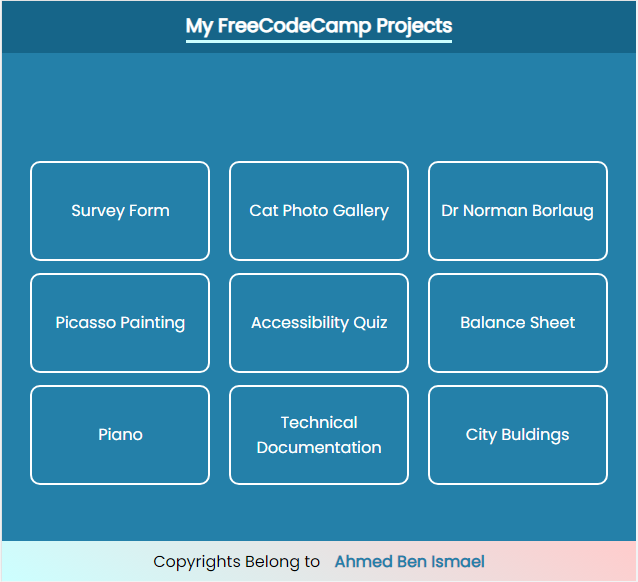
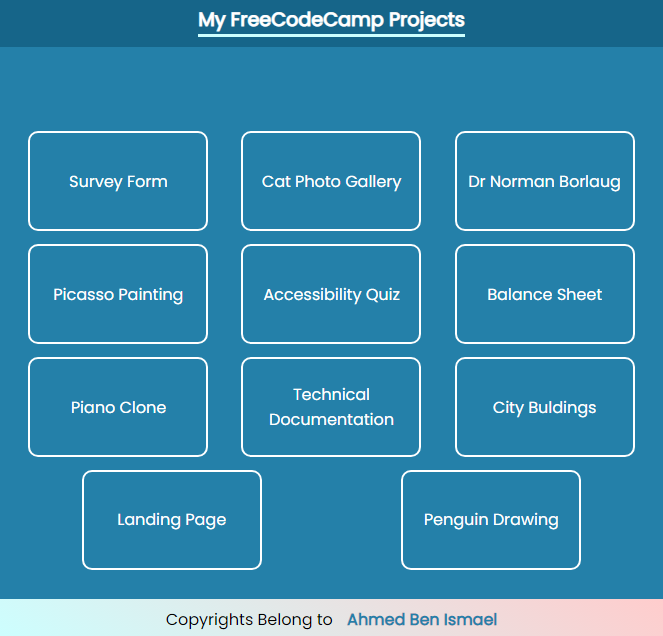
upload the new codepen drawing design link

Changed region(s): [[0.0, 0.0, 1.0, 1.0], [0.0893, 0.2784, 0.268, 0.3093]]

diff --git a/index.html b/index.html
@@ -49,71 +49,11 @@
 		</div>
 		<div class="body">
 			<div class="project-tile">
-				<a href="https://codepen.io/ABIHD20/details/bGMbvGK" target="_blank">
-					<img src="./imgs/city-skyline-css.PNG" alt="City Skylien Buldings made with CSS only">
-					<div class="title">
-						<span class="mark">< </saan>
-						<p>City Skyline CSS</p>
-						<span class="mark"> /></span>
-					</div>
-				</a>
-			</div>
-			<div class="project-tile">
-				<a href="https://codepen.io/ABIHD20/details/VwXopyJ" target="_blank">
-					<img src=".//imgs/cat-gallery.PNG" alt="Collection of Cat Photos">
-					<div class="title">
-						<span class="mark">< </saan>
-						<p>Cat Photos Gallery</p>
-						<span class="mark"> /></span>
-					</div>
-				</a>
-			</div>
-			<div class="project-tile">
-				<a href="https://codepen.io/ABIHD20/details/VwxmaLw" target="_blank">
-					<img src="./imgs/piano-project.PNG" alt="Design look like a Real Piano">
-					<div class="title">
-						<span class="mark">< </saan>
-						<p>Real Piano</p>
-						<span class="mark"> /></span>
-					</div>
-				</a>
-			</div>
-			<div class="project-tile">
-				<a href="https://codepen.io/ABIHD20/details/PoWevoG" target="_blank">
-					<img src="./imgs/fill-background.PNG" alt="Animation Fill Background">
-					<div class="title">
-						<span class="mark">< </saan>
-						<p>Page Animation</p>
-						<span class="mark"> /></span>
-					</div>
-				</a>
-			</div>
-			<div class="project-tile">
-				<a href="https://codepen.io/ABIHD20/details/GRdQwpO" target="_blank">
-					<img src="./imgs/roller-coaster.png" alt="Animation Fill Background">
-					<div class="title">
-						<span class="mark">< </saan>
-						<p>Roller Coaster</p>
-						<span class="mark"> /></span>
-					</div>
-				</a>
-			</div>
-			<div class="project-tile">
 				<a href="https://themarker20.github.io/HTML-CSS-Design-Template-1/" target="_blank">
 					<img src="./imgs/landing-page.png" alt="HTMl and CSS Design">
 					<div class="title">
-						<span class="mark">< </saan>
+						<span class="mark">< </span>
 						<p>Landing Page</p>
-						<span class="mark"> /></span>
-					</div>
-				</a>
-			</div>
-			<div class="project-tile">
-				<a href="https://themarker20.github.io/FreeCodeCamp-Collection/" target="_blank">
-					<img src="./imgs/collection-projects.png" alt="Projects Collection">
-					<div class="title">
-						<span class="mark">< </saan>
-						<p>Projects Collection</p>
 						<span class="mark"> /></span>
 					</div>
 				</a>
@@ -122,7 +62,7 @@
 				<a href="https://themarker20.github.io/Bootstrap-Practice-01/" target="_blank">
 					<img src="./imgs/bondi-bootstrap-practice.png" alt="Bootstrap Practice Design">
 					<div class="title">
-						<span class="mark">< </saan>
+						<span class="mark">< </span>
 						<p>Bootstrap Design 01</p>
 						<span class="mark"> /></span>
 					</div>
@@ -132,8 +72,78 @@
 				<a href="https://themarker20.github.io/Udemy-Practice-02/" target="_blank">
 					<img src="./imgs/udemy-portfolio-design.png" alt="Udemy Portfolio Design">
 					<div class="title">
-						<span class="mark">< </saan>
+						<span class="mark">< </span>
 						<p>Udemy Practice 02</p>
+						<span class="mark"> /></span>
+					</div>
+				</a>
+			</div>
+			<div class="project-tile">
+				<a href="https://themarker20.github.io/FreeCodeCamp-Collection/" target="_blank">
+					<img src="./imgs/collection-projects.png" alt="Projects Collection">
+					<div class="title">
+						<span class="mark">< </span>
+						<p>Projects Collection</p>
+						<span class="mark"> /></span>
+					</div>
+				</a>
+			</div>
+			<div class="project-tile">
+				<a href="https://codepen.io/ABIHD20/details/MWGBKRa" target="_blank">
+					<img src="./imgs/penguin-drawing.png" alt="Penguin Drawing with CSS and Animation">
+					<div class="title">
+						<span class="mark">< </span>
+						<p>Penguin Drawing</p>
+						<span class="mark"> /></span>
+					</div>
+				</a>
+			</div>
+			<div class="project-tile">
+				<a href="https://codepen.io/ABIHD20/details/bGMbvGK" target="_blank">
+					<img src="./imgs/city-skyline-css.PNG" alt="City Skylien Buldings made with CSS only">
+					<div class="title">
+						<span class="mark">< </span>
+						<p>City Skyline CSS</p>
+						<span class="mark"> /></span>
+					</div>
+				</a>
+			</div>
+			<div class="project-tile">
+				<a href="https://codepen.io/ABIHD20/details/VwXopyJ" target="_blank">
+					<img src=".//imgs/cat-gallery.PNG" alt="Collection of Cat Photos">
+					<div class="title">
+						<span class="mark">< </span>
+						<p>Cat Photos Gallery</p>
+						<span class="mark"> /></span>
+					</div>
+				</a>
+			</div>
+			<div class="project-tile">
+				<a href="https://codepen.io/ABIHD20/details/VwxmaLw" target="_blank">
+					<img src="./imgs/piano-project.PNG" alt="Design look like a Real Piano">
+					<div class="title">
+						<span class="mark">< </span>
+						<p>Real Piano</p>
+						<span class="mark"> /></span>
+					</div>
+				</a>
+			</div>
+			<div class="project-tile">
+				<a href="https://codepen.io/ABIHD20/details/PoWevoG" target="_blank">
+					<img src="./imgs/fill-background.PNG" alt="Animation Fill Background">
+					<div class="title">
+						<span class="mark">< </span>
+						<p>Page Animation</p>
+						<span class="mark"> /></span>
+					</div>
+				</a>
+			</div>
+			<div class="project-tile">
+				<a href="https://codepen.io/ABIHD20/details/GRdQwpO" target="_blank">
+					<img src="./imgs/roller-coaster.png" alt="Animation Fill Background">
+					<div class="title">
+						<span class="mark">< </span>
+						<p>Roller Coaster</p>
 						<span class="mark"> /></span>
 					</div>
 				</a>
